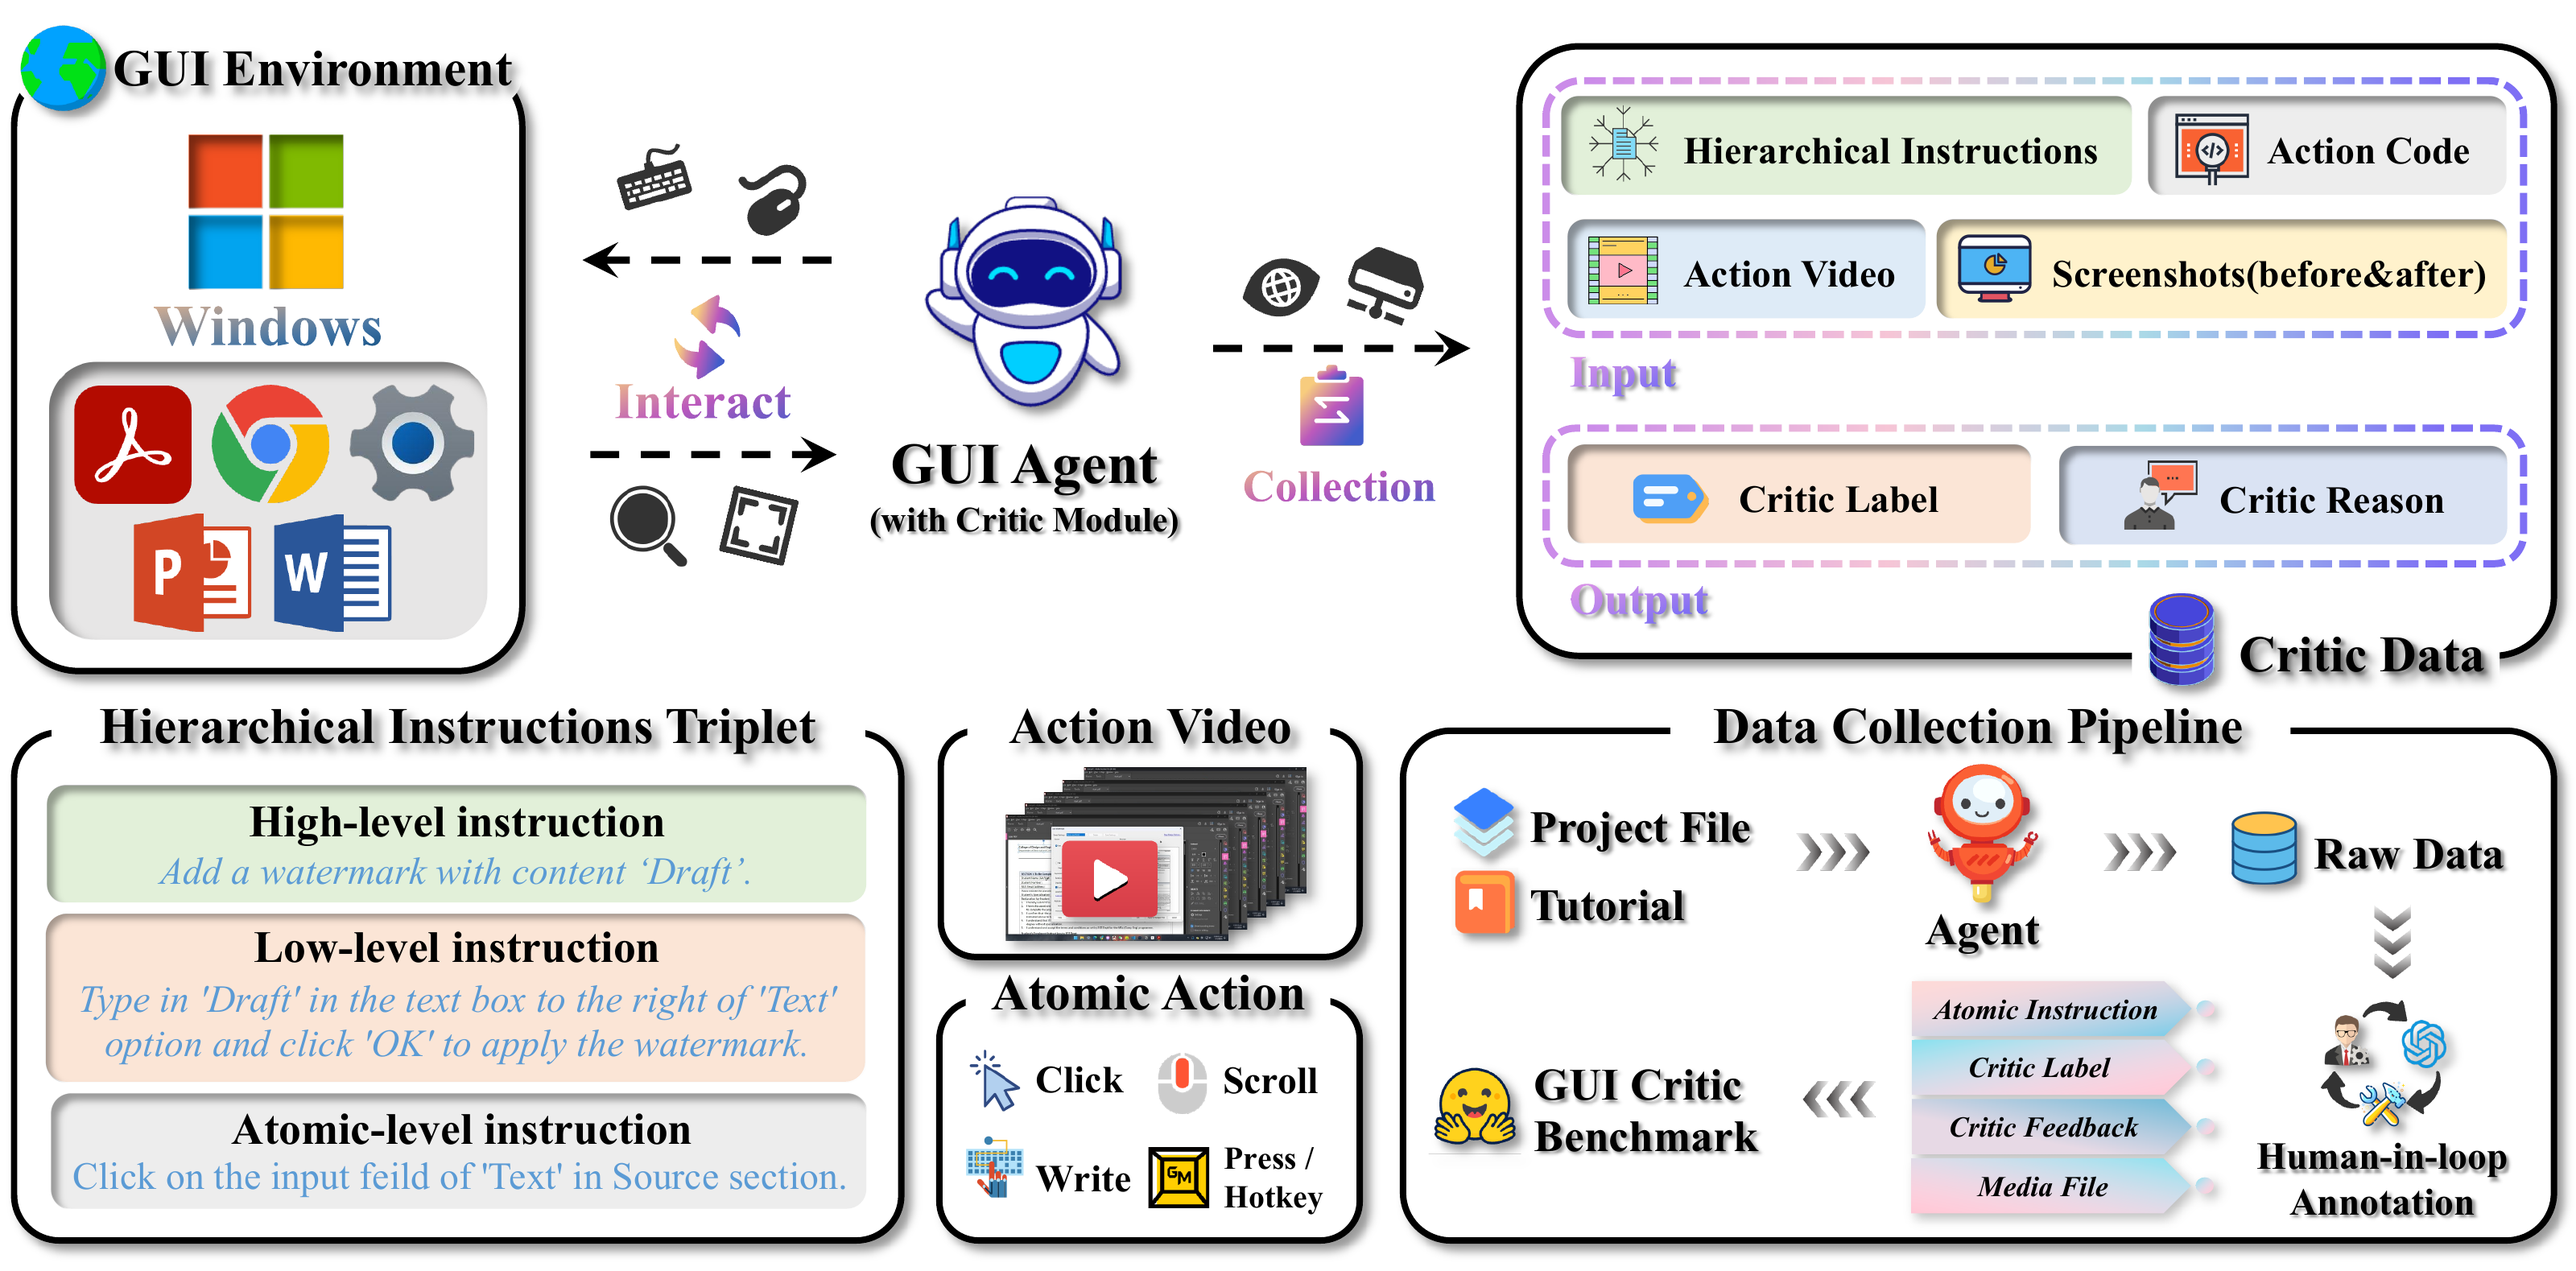
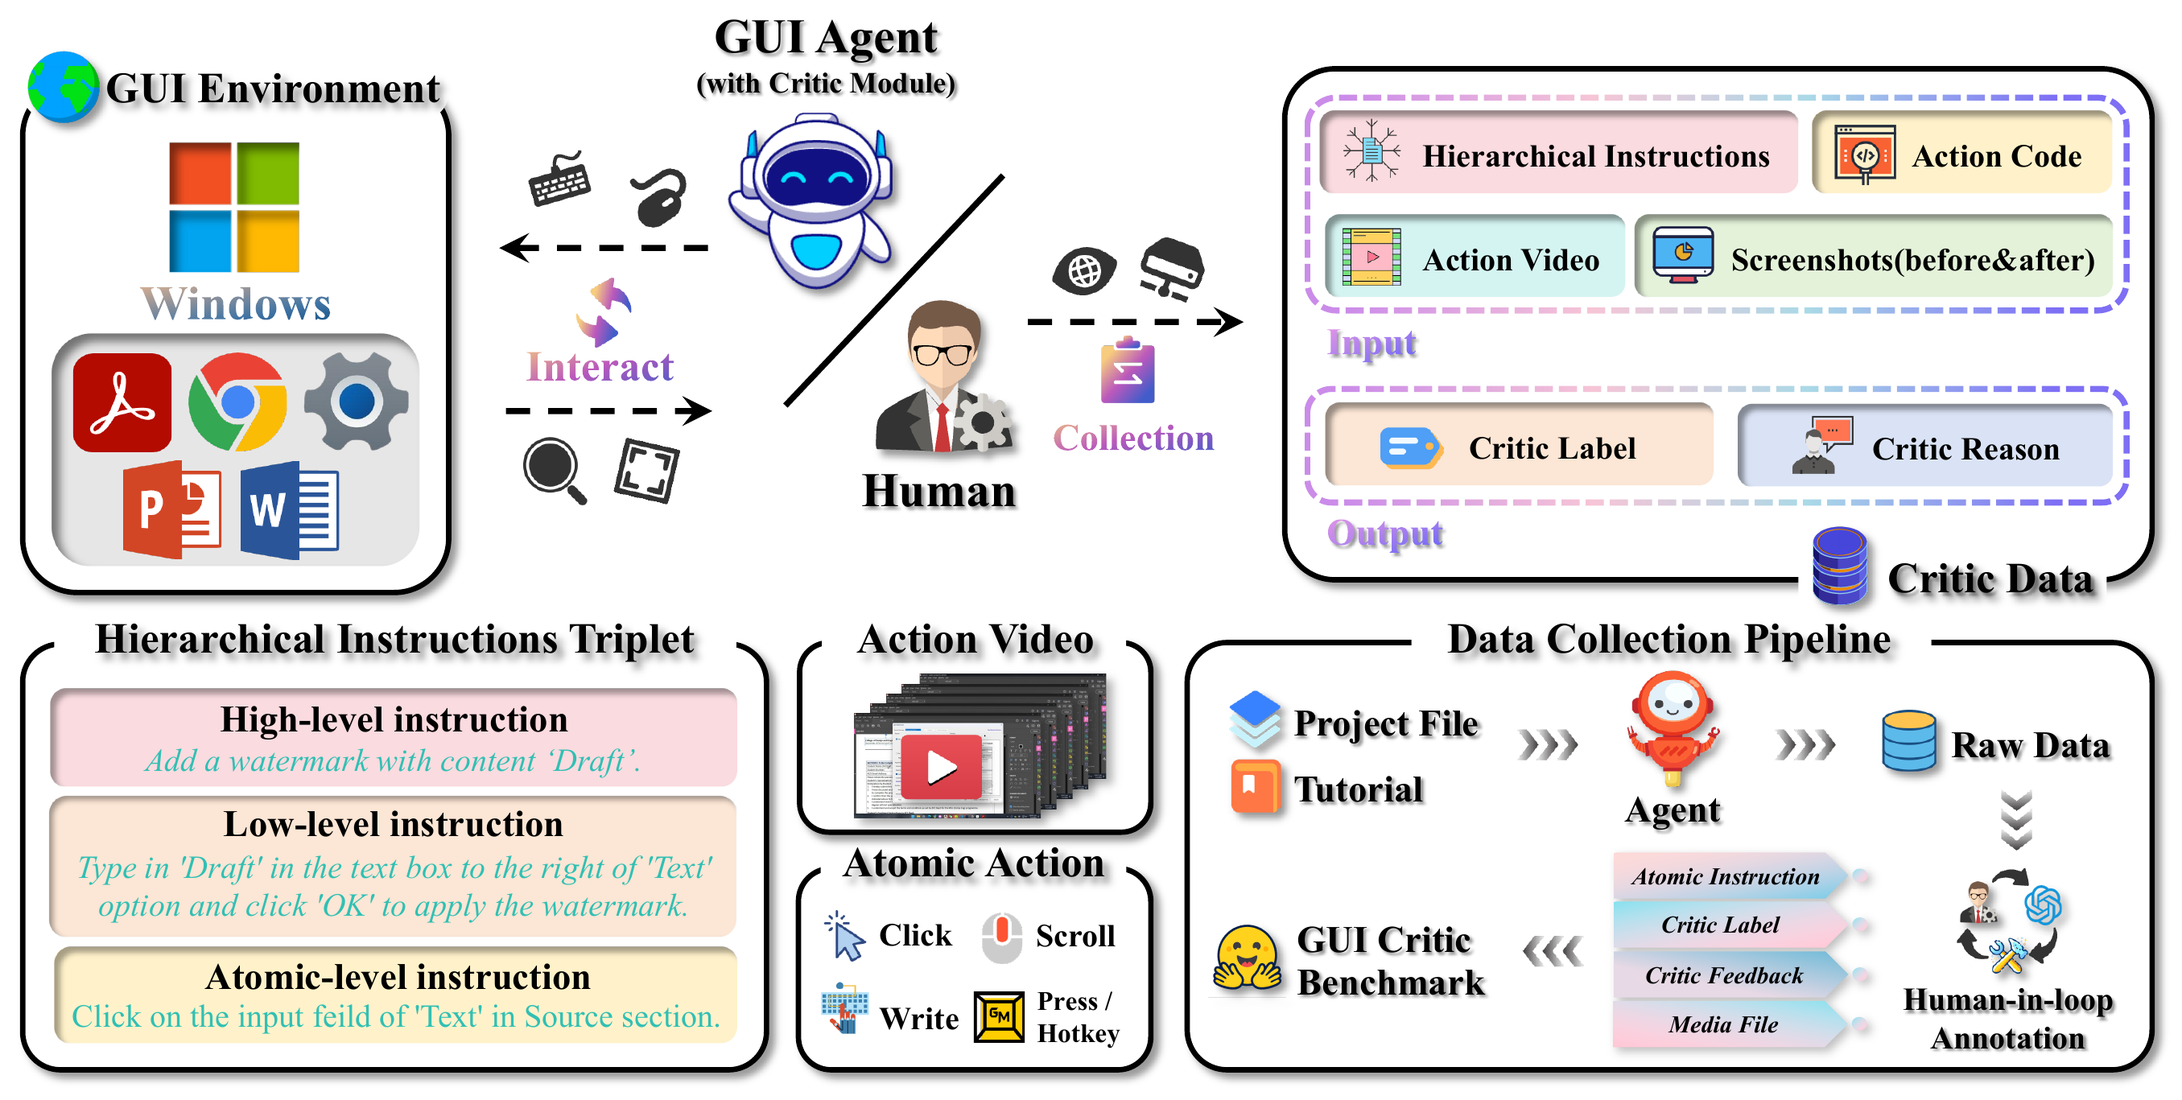
Use updated overview including human demonstrations

diff --git a/README.md b/README.md
@@ -6,7 +6,7 @@ CriticGUI studies state-aware, instruction-grounded evaluation of GUI actions. A
 
 [Project blog](https://kaiming-y.github.io/blog/criticgui/) · [WorldGUI agent](https://github.com/showlab/WorldGUI) · [WorldGUI website](https://showlab.github.io/WorldGUI/)
 
-![What a GUI critic does](assets/critic-model.png)
+![CriticGUI overview: agent exploration and human demonstrations](assets/overview.png)
 
 ## What this repository provides
 
@@ -26,7 +26,6 @@ Agent-only collection inherits the capabilities and exploration biases of the ex
 
 Human demonstrations let us reach these otherwise underrepresented states and control the granularity of each interaction. Deliberate, human-recorded perturbations then provide difficult contrasts: a wrong target, incorrect text, or a missing confirmation can look superficially plausible but fail the current instruction. Agent-generated examples remain useful; human collection broadens what they cover.
 
-![CriticGUI benchmark overview](assets/overview.png)
 
 ## Collection workflow
 
